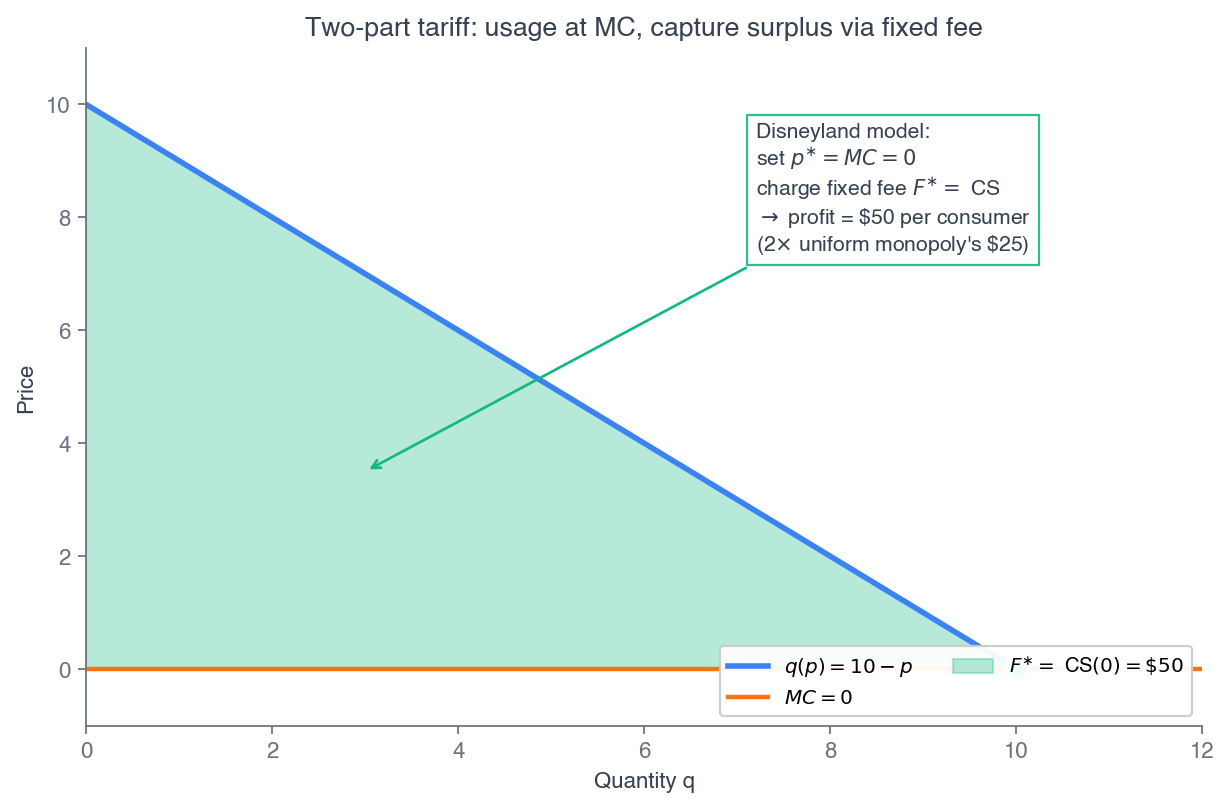
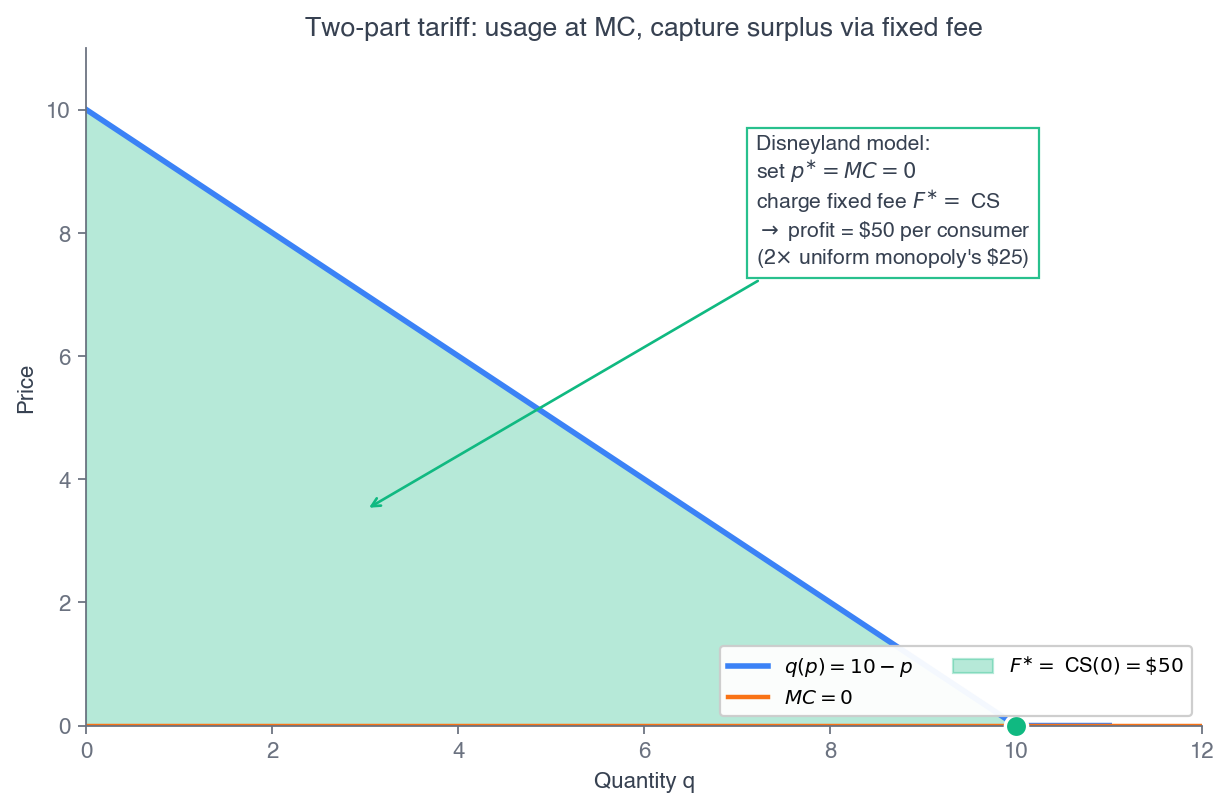
ch12 deck: two-part-tariff overview + gym/buffet/carwash examples + fix fig-12-5 axis
(A) two-part-tariff-overview (p83): definition F + p*Q + 4 examples
    (video games, Zipcar, clubs, Amazon Prime), after the div-two-part divider
(B) nested pd2-gym / pd2-buffet / pd2-carwash from 1116 ch11 as vertical
    children v1/v2/v3 under the overview (pp.84-86); gym/buffet videos are
    R2-hosted, carwash uses car_wash.png
(C) fixed figure-12-5 x-axis floating off y=0 (generator ylim -1->0 +
    scatter clip_on=False); regenerated book SVG+PNG and copied fixed PNG
    into the deck; app-disney (p87) now shows the axis on y=0

101 leaf slides. Verified: overview + 3 nested children, R2 videos play,
carwash img loads, fig-12-5 axis on y=0, 0 overflow, 0 console errors.

diff --git a/econ2316/ch12-pricing-with-market-power/index.html b/econ2316/ch12-pricing-with-market-power/index.html
@@ -1669,6 +1669,56 @@
   <p class="subtitle">Entry fee \(F\) + per-unit price \(p\): replicate perfect PD without reading minds</p>
 </section>
 
+<!-- ===== §12.5 — Two-Part Tariff overview + 3 examples pulled from 1116 ch11 #/pd2-gym|buffet|carwash ===== -->
+<section>
+<section id="two-part-tariff-overview">
+ <h2><i class="fa-solid fa-receipt" style="color: var(--secondary-color);"></i> Two-Part Tariff</h2>
+ <div class="key-result" style="margin:0 0 12px;"><p style="margin:0; font-size:13.5pt;">A <strong>two-part tariff</strong> is a pricing strategy in which the payment has two components: a <strong>fixed fee</strong> \(F\) plus a <strong>per-unit price</strong> \(p\) &nbsp;&mdash;&nbsp; the customer pays \(F + p \times Q\).</p></div>
+ <p style="font-size:12pt; font-weight:600; color:var(--muted-color); margin:0 0 9px;">The fixed fee gets you in the door; the per-unit price is charged on use:</p>
+ <div style="display:grid; grid-template-columns:1fr 1fr; gap:12px;">
+  <div style="background:#f0f5f8; border-radius:8px; padding:9px 15px; border-left:4px solid var(--secondary-color); font-size:12pt; line-height:1.4;"><strong><i class="fa-solid fa-gamepad" style="color:var(--secondary-color);"></i> Video game systems</strong><br>fixed fee = <em>console</em> &middot; per-unit = <em>each game</em></div>
+  <div style="background:#f0f5f8; border-radius:8px; padding:9px 15px; border-left:4px solid var(--secondary-color); font-size:12pt; line-height:1.4;"><strong><i class="fa-solid fa-car-side" style="color:var(--secondary-color);"></i> Zipcar</strong><br>fixed fee = <em>annual membership</em> &middot; per-unit = <em>hourly rental</em></div>
+  <div style="background:#f0f5f8; border-radius:8px; padding:9px 15px; border-left:4px solid var(--secondary-color); font-size:12pt; line-height:1.4;"><strong><i class="fa-solid fa-champagne-glasses" style="color:var(--secondary-color);"></i> Popular clubs</strong><br>fixed fee = <em>cover charge</em> &middot; per-unit = <em>each beverage</em></div>
+  <div style="background:#f0f5f8; border-radius:8px; padding:9px 15px; border-left:4px solid var(--secondary-color); font-size:12pt; line-height:1.4;"><strong><i class="fa-solid fa-cart-shopping" style="color:var(--secondary-color);"></i> Amazon Prime</strong><br>fixed fee = <em>yearly charge</em> &middot; per-unit = <em>any purchase</em></div>
+ </div>
+ <aside class="notes">Overview of the two-part tariff: total payment = fixed fee F + per-unit price p times quantity. The four examples make the structure concrete -- a one-time/recurring access fee plus a usage charge. The economics (next slides): set p near marginal cost so the buyer consumes efficiently, then use F to capture the consumer surplus. Three worked cases follow (gym, buffet, car wash), then Application 12.2 Disney.</aside>
+</section>
+
+<section id="pd2-gym">
+ <h2><i class="fa-solid fa-dumbbell" style="color: var(--success-color);"></i> Two-Part Tariffs &mdash; the Gym</h2>
+ <div style="display:flex; gap:12px; justify-content:center; flex-wrap:wrap; margin:2px 0 10px;">
+  <div style="background:#fdf3d0; border-radius:8px; padding:6px 16px; font-size:13pt; font-weight:700;">Part 1: Membership = <span style="color:var(--secondary-color);">$300 / year</span></div>
+  <div style="background:#fdf3d0; border-radius:8px; padding:6px 16px; font-size:13pt; font-weight:700;">Part 2: each class = MC = <span style="color:var(--accent-color);">$10 / class</span></div>
+ </div>
+ <div style="display:grid; grid-template-columns:1fr 1fr; gap:14px;">
+  <div class="video-frame" style="box-shadow:0 3px 12px rgba(0,0,0,0.16);"><video data-src="https://pub-fa3318ef831f4dbaa4ee4bef1dc209b6.r2.dev/lectures/ch11/gym_1.mp4" autoplay loop muted playsinline preload="none" title="Gym class"></video></div>
+  <div class="video-frame" style="box-shadow:0 3px 12px rgba(0,0,0,0.16);"><video data-src="https://pub-fa3318ef831f4dbaa4ee4bef1dc209b6.r2.dev/lectures/ch11/gym_2.mp4" autoplay loop muted playsinline preload="none" title="Gym floor"></video></div>
+ </div>
+ <p style="font-size:12.5pt; text-align:center; color:var(--muted-color); margin-top:10px;">The <strong>annual fee</strong> captures consumer surplus up front; the <strong>per-class price = marginal cost</strong>, so members keep using the gym efficiently instead of being priced out.</p>
+ <aside class="notes">Two-part tariff = a fixed entry fee + a per-unit price. Set the per-unit price at MC so the buyer consumes the efficient quantity, then use the membership fee to scoop up the consumer surplus that efficient consumption generates. The gym membership + per-class (or included-class) structure is the textbook case.</aside>
+</section>
+
+<section id="pd2-buffet">
+ <h2><i class="fa-solid fa-utensils" style="color: var(--success-color);"></i> Two-Part Tariffs &mdash; the Buffet</h2>
+ <div style="display:flex; gap:12px; justify-content:center; flex-wrap:wrap; margin:2px 0 10px;">
+  <div style="background:#fdf3d0; border-radius:8px; padding:6px 16px; font-size:13pt; font-weight:700;">Part 1: entry = <span style="color:var(--secondary-color);">$30 / person</span></div>
+  <div style="background:#fdf3d0; border-radius:8px; padding:6px 16px; font-size:13pt; font-weight:700;">Part 2: each plate = MC = <span style="color:var(--accent-color);">$0 / plate</span></div>
+ </div>
+ <div style="width:100%; max-width:800px; margin:0 auto;">
+  <div class="video-frame" style="box-shadow:0 3px 14px rgba(0,0,0,0.2);"><video data-src="https://pub-fa3318ef831f4dbaa4ee4bef1dc209b6.r2.dev/lectures/ch11/buffet.mp4" autoplay loop muted playsinline preload="none" title="All-you-can-eat buffet"></video></div>
+ </div>
+ <p style="font-size:12.5pt; text-align:center; color:var(--muted-color); margin:10px auto 0; max-width:1040px;">Once the trays are cooked, <strong style="color:var(--text-color);">unsold food is thrown out anyway</strong> &mdash; so the <strong style="color:var(--text-color);">marginal cost of one more plate &asymp; $0</strong>. The buffet charges <strong style="color:var(--text-color);">$0 per plate</strong> and captures all the surplus in the <strong style="color:var(--text-color);">entry fee</strong>.</p>
+ <aside class="notes">The buffet is the MC&asymp;0 special case of the two-part tariff. Because an extra plate from already-prepared food costs the restaurant almost nothing, charging per plate would only deter eating and shrink the experience customers are paying for. So Part 2 = $0 and the entire margin lives in the door price.</aside>
+</section>
+
+<section id="pd2-carwash">
+ <h2><i class="fa-solid fa-car" style="color: var(--secondary-color);"></i> Two-Part Tariffs &mdash; the Local Car Wash</h2>
+ <div style="text-align:center;"><img alt="Waves Car Wash: single-price wash tiers (Basic $13 / Extreme $20 / Ultimate $26) and a $29-45 unlimited monthly plan" src="figures/car_wash.png?v=2" style="max-width:100%; max-height:506px; object-fit:contain; border-radius:8px; box-shadow:0 3px 14px rgba(0,0,0,0.2);"></div>
+ <p style="font-size:12.5pt; text-align:center; color:var(--muted-color); margin:9px auto 0; max-width:1040px;">Wages and rent are <strong style="color:var(--text-color);">already paid to open the doors</strong> &mdash; so the <strong style="color:var(--text-color);">marginal cost of one more wash &asymp; $0</strong>. The <strong style="color:var(--text-color);">unlimited monthly fee</strong> captures the surplus; the per-wash price &asymp; $0.</p>
+ <aside class="notes">Same MC&asymp;0 logic as the buffet, but for a service: the staff and lease are fixed costs that are sunk the moment the location opens. One extra automated wash adds only a few cents of water and soap. The unlimited monthly plan is a two-part tariff with Part 2 &asymp; $0 &mdash; and it also smooths revenue and raises switching costs. (Waves also versions the one-time wash: Basic/Extreme/Ultimate.)</aside>
+</section>
+</section>
+
 <!-- ===== Slide 25 — §12.5 Application 12.2 Disney + figure 12-5 ===== -->
 <section id="app-disney">
   <h2><i class="fa-solid fa-ticket" style="color: var(--secondary-color);"></i> Application 12.2 &mdash; Disney's FastPass &rarr; Lightning Lane</h2>

diff --git a/econ2316/ch12-pricing-with-market-power/presentation.html b/econ2316/ch12-pricing-with-market-power/presentation.html
@@ -1669,6 +1669,56 @@
   <p class="subtitle">Entry fee \(F\) + per-unit price \(p\): replicate perfect PD without reading minds</p>
 </section>
 
+<!-- ===== §12.5 — Two-Part Tariff overview + 3 examples pulled from 1116 ch11 #/pd2-gym|buffet|carwash ===== -->
+<section>
+<section id="two-part-tariff-overview">
+ <h2><i class="fa-solid fa-receipt" style="color: var(--secondary-color);"></i> Two-Part Tariff</h2>
+ <div class="key-result" style="margin:0 0 12px;"><p style="margin:0; font-size:13.5pt;">A <strong>two-part tariff</strong> is a pricing strategy in which the payment has two components: a <strong>fixed fee</strong> \(F\) plus a <strong>per-unit price</strong> \(p\) &nbsp;&mdash;&nbsp; the customer pays \(F + p \times Q\).</p></div>
+ <p style="font-size:12pt; font-weight:600; color:var(--muted-color); margin:0 0 9px;">The fixed fee gets you in the door; the per-unit price is charged on use:</p>
+ <div style="display:grid; grid-template-columns:1fr 1fr; gap:12px;">
+  <div style="background:#f0f5f8; border-radius:8px; padding:9px 15px; border-left:4px solid var(--secondary-color); font-size:12pt; line-height:1.4;"><strong><i class="fa-solid fa-gamepad" style="color:var(--secondary-color);"></i> Video game systems</strong><br>fixed fee = <em>console</em> &middot; per-unit = <em>each game</em></div>
+  <div style="background:#f0f5f8; border-radius:8px; padding:9px 15px; border-left:4px solid var(--secondary-color); font-size:12pt; line-height:1.4;"><strong><i class="fa-solid fa-car-side" style="color:var(--secondary-color);"></i> Zipcar</strong><br>fixed fee = <em>annual membership</em> &middot; per-unit = <em>hourly rental</em></div>
+  <div style="background:#f0f5f8; border-radius:8px; padding:9px 15px; border-left:4px solid var(--secondary-color); font-size:12pt; line-height:1.4;"><strong><i class="fa-solid fa-champagne-glasses" style="color:var(--secondary-color);"></i> Popular clubs</strong><br>fixed fee = <em>cover charge</em> &middot; per-unit = <em>each beverage</em></div>
+  <div style="background:#f0f5f8; border-radius:8px; padding:9px 15px; border-left:4px solid var(--secondary-color); font-size:12pt; line-height:1.4;"><strong><i class="fa-solid fa-cart-shopping" style="color:var(--secondary-color);"></i> Amazon Prime</strong><br>fixed fee = <em>yearly charge</em> &middot; per-unit = <em>any purchase</em></div>
+ </div>
+ <aside class="notes">Overview of the two-part tariff: total payment = fixed fee F + per-unit price p times quantity. The four examples make the structure concrete -- a one-time/recurring access fee plus a usage charge. The economics (next slides): set p near marginal cost so the buyer consumes efficiently, then use F to capture the consumer surplus. Three worked cases follow (gym, buffet, car wash), then Application 12.2 Disney.</aside>
+</section>
+
+<section id="pd2-gym">
+ <h2><i class="fa-solid fa-dumbbell" style="color: var(--success-color);"></i> Two-Part Tariffs &mdash; the Gym</h2>
+ <div style="display:flex; gap:12px; justify-content:center; flex-wrap:wrap; margin:2px 0 10px;">
+  <div style="background:#fdf3d0; border-radius:8px; padding:6px 16px; font-size:13pt; font-weight:700;">Part 1: Membership = <span style="color:var(--secondary-color);">$300 / year</span></div>
+  <div style="background:#fdf3d0; border-radius:8px; padding:6px 16px; font-size:13pt; font-weight:700;">Part 2: each class = MC = <span style="color:var(--accent-color);">$10 / class</span></div>
+ </div>
+ <div style="display:grid; grid-template-columns:1fr 1fr; gap:14px;">
+  <div class="video-frame" style="box-shadow:0 3px 12px rgba(0,0,0,0.16);"><video data-src="https://pub-fa3318ef831f4dbaa4ee4bef1dc209b6.r2.dev/lectures/ch11/gym_1.mp4" autoplay loop muted playsinline preload="none" title="Gym class"></video></div>
+  <div class="video-frame" style="box-shadow:0 3px 12px rgba(0,0,0,0.16);"><video data-src="https://pub-fa3318ef831f4dbaa4ee4bef1dc209b6.r2.dev/lectures/ch11/gym_2.mp4" autoplay loop muted playsinline preload="none" title="Gym floor"></video></div>
+ </div>
+ <p style="font-size:12.5pt; text-align:center; color:var(--muted-color); margin-top:10px;">The <strong>annual fee</strong> captures consumer surplus up front; the <strong>per-class price = marginal cost</strong>, so members keep using the gym efficiently instead of being priced out.</p>
+ <aside class="notes">Two-part tariff = a fixed entry fee + a per-unit price. Set the per-unit price at MC so the buyer consumes the efficient quantity, then use the membership fee to scoop up the consumer surplus that efficient consumption generates. The gym membership + per-class (or included-class) structure is the textbook case.</aside>
+</section>
+
+<section id="pd2-buffet">
+ <h2><i class="fa-solid fa-utensils" style="color: var(--success-color);"></i> Two-Part Tariffs &mdash; the Buffet</h2>
+ <div style="display:flex; gap:12px; justify-content:center; flex-wrap:wrap; margin:2px 0 10px;">
+  <div style="background:#fdf3d0; border-radius:8px; padding:6px 16px; font-size:13pt; font-weight:700;">Part 1: entry = <span style="color:var(--secondary-color);">$30 / person</span></div>
+  <div style="background:#fdf3d0; border-radius:8px; padding:6px 16px; font-size:13pt; font-weight:700;">Part 2: each plate = MC = <span style="color:var(--accent-color);">$0 / plate</span></div>
+ </div>
+ <div style="width:100%; max-width:800px; margin:0 auto;">
+  <div class="video-frame" style="box-shadow:0 3px 14px rgba(0,0,0,0.2);"><video data-src="https://pub-fa3318ef831f4dbaa4ee4bef1dc209b6.r2.dev/lectures/ch11/buffet.mp4" autoplay loop muted playsinline preload="none" title="All-you-can-eat buffet"></video></div>
+ </div>
+ <p style="font-size:12.5pt; text-align:center; color:var(--muted-color); margin:10px auto 0; max-width:1040px;">Once the trays are cooked, <strong style="color:var(--text-color);">unsold food is thrown out anyway</strong> &mdash; so the <strong style="color:var(--text-color);">marginal cost of one more plate &asymp; $0</strong>. The buffet charges <strong style="color:var(--text-color);">$0 per plate</strong> and captures all the surplus in the <strong style="color:var(--text-color);">entry fee</strong>.</p>
+ <aside class="notes">The buffet is the MC&asymp;0 special case of the two-part tariff. Because an extra plate from already-prepared food costs the restaurant almost nothing, charging per plate would only deter eating and shrink the experience customers are paying for. So Part 2 = $0 and the entire margin lives in the door price.</aside>
+</section>
+
+<section id="pd2-carwash">
+ <h2><i class="fa-solid fa-car" style="color: var(--secondary-color);"></i> Two-Part Tariffs &mdash; the Local Car Wash</h2>
+ <div style="text-align:center;"><img alt="Waves Car Wash: single-price wash tiers (Basic $13 / Extreme $20 / Ultimate $26) and a $29-45 unlimited monthly plan" src="figures/car_wash.png?v=2" style="max-width:100%; max-height:506px; object-fit:contain; border-radius:8px; box-shadow:0 3px 14px rgba(0,0,0,0.2);"></div>
+ <p style="font-size:12.5pt; text-align:center; color:var(--muted-color); margin:9px auto 0; max-width:1040px;">Wages and rent are <strong style="color:var(--text-color);">already paid to open the doors</strong> &mdash; so the <strong style="color:var(--text-color);">marginal cost of one more wash &asymp; $0</strong>. The <strong style="color:var(--text-color);">unlimited monthly fee</strong> captures the surplus; the per-wash price &asymp; $0.</p>
+ <aside class="notes">Same MC&asymp;0 logic as the buffet, but for a service: the staff and lease are fixed costs that are sunk the moment the location opens. One extra automated wash adds only a few cents of water and soap. The unlimited monthly plan is a two-part tariff with Part 2 &asymp; $0 &mdash; and it also smooths revenue and raises switching costs. (Waves also versions the one-time wash: Basic/Extreme/Ultimate.)</aside>
+</section>
+</section>
+
 <!-- ===== Slide 25 — §12.5 Application 12.2 Disney + figure 12-5 ===== -->
 <section id="app-disney">
   <h2><i class="fa-solid fa-ticket" style="color: var(--secondary-color);"></i> Application 12.2 &mdash; Disney's FastPass &rarr; Lightning Lane</h2>
